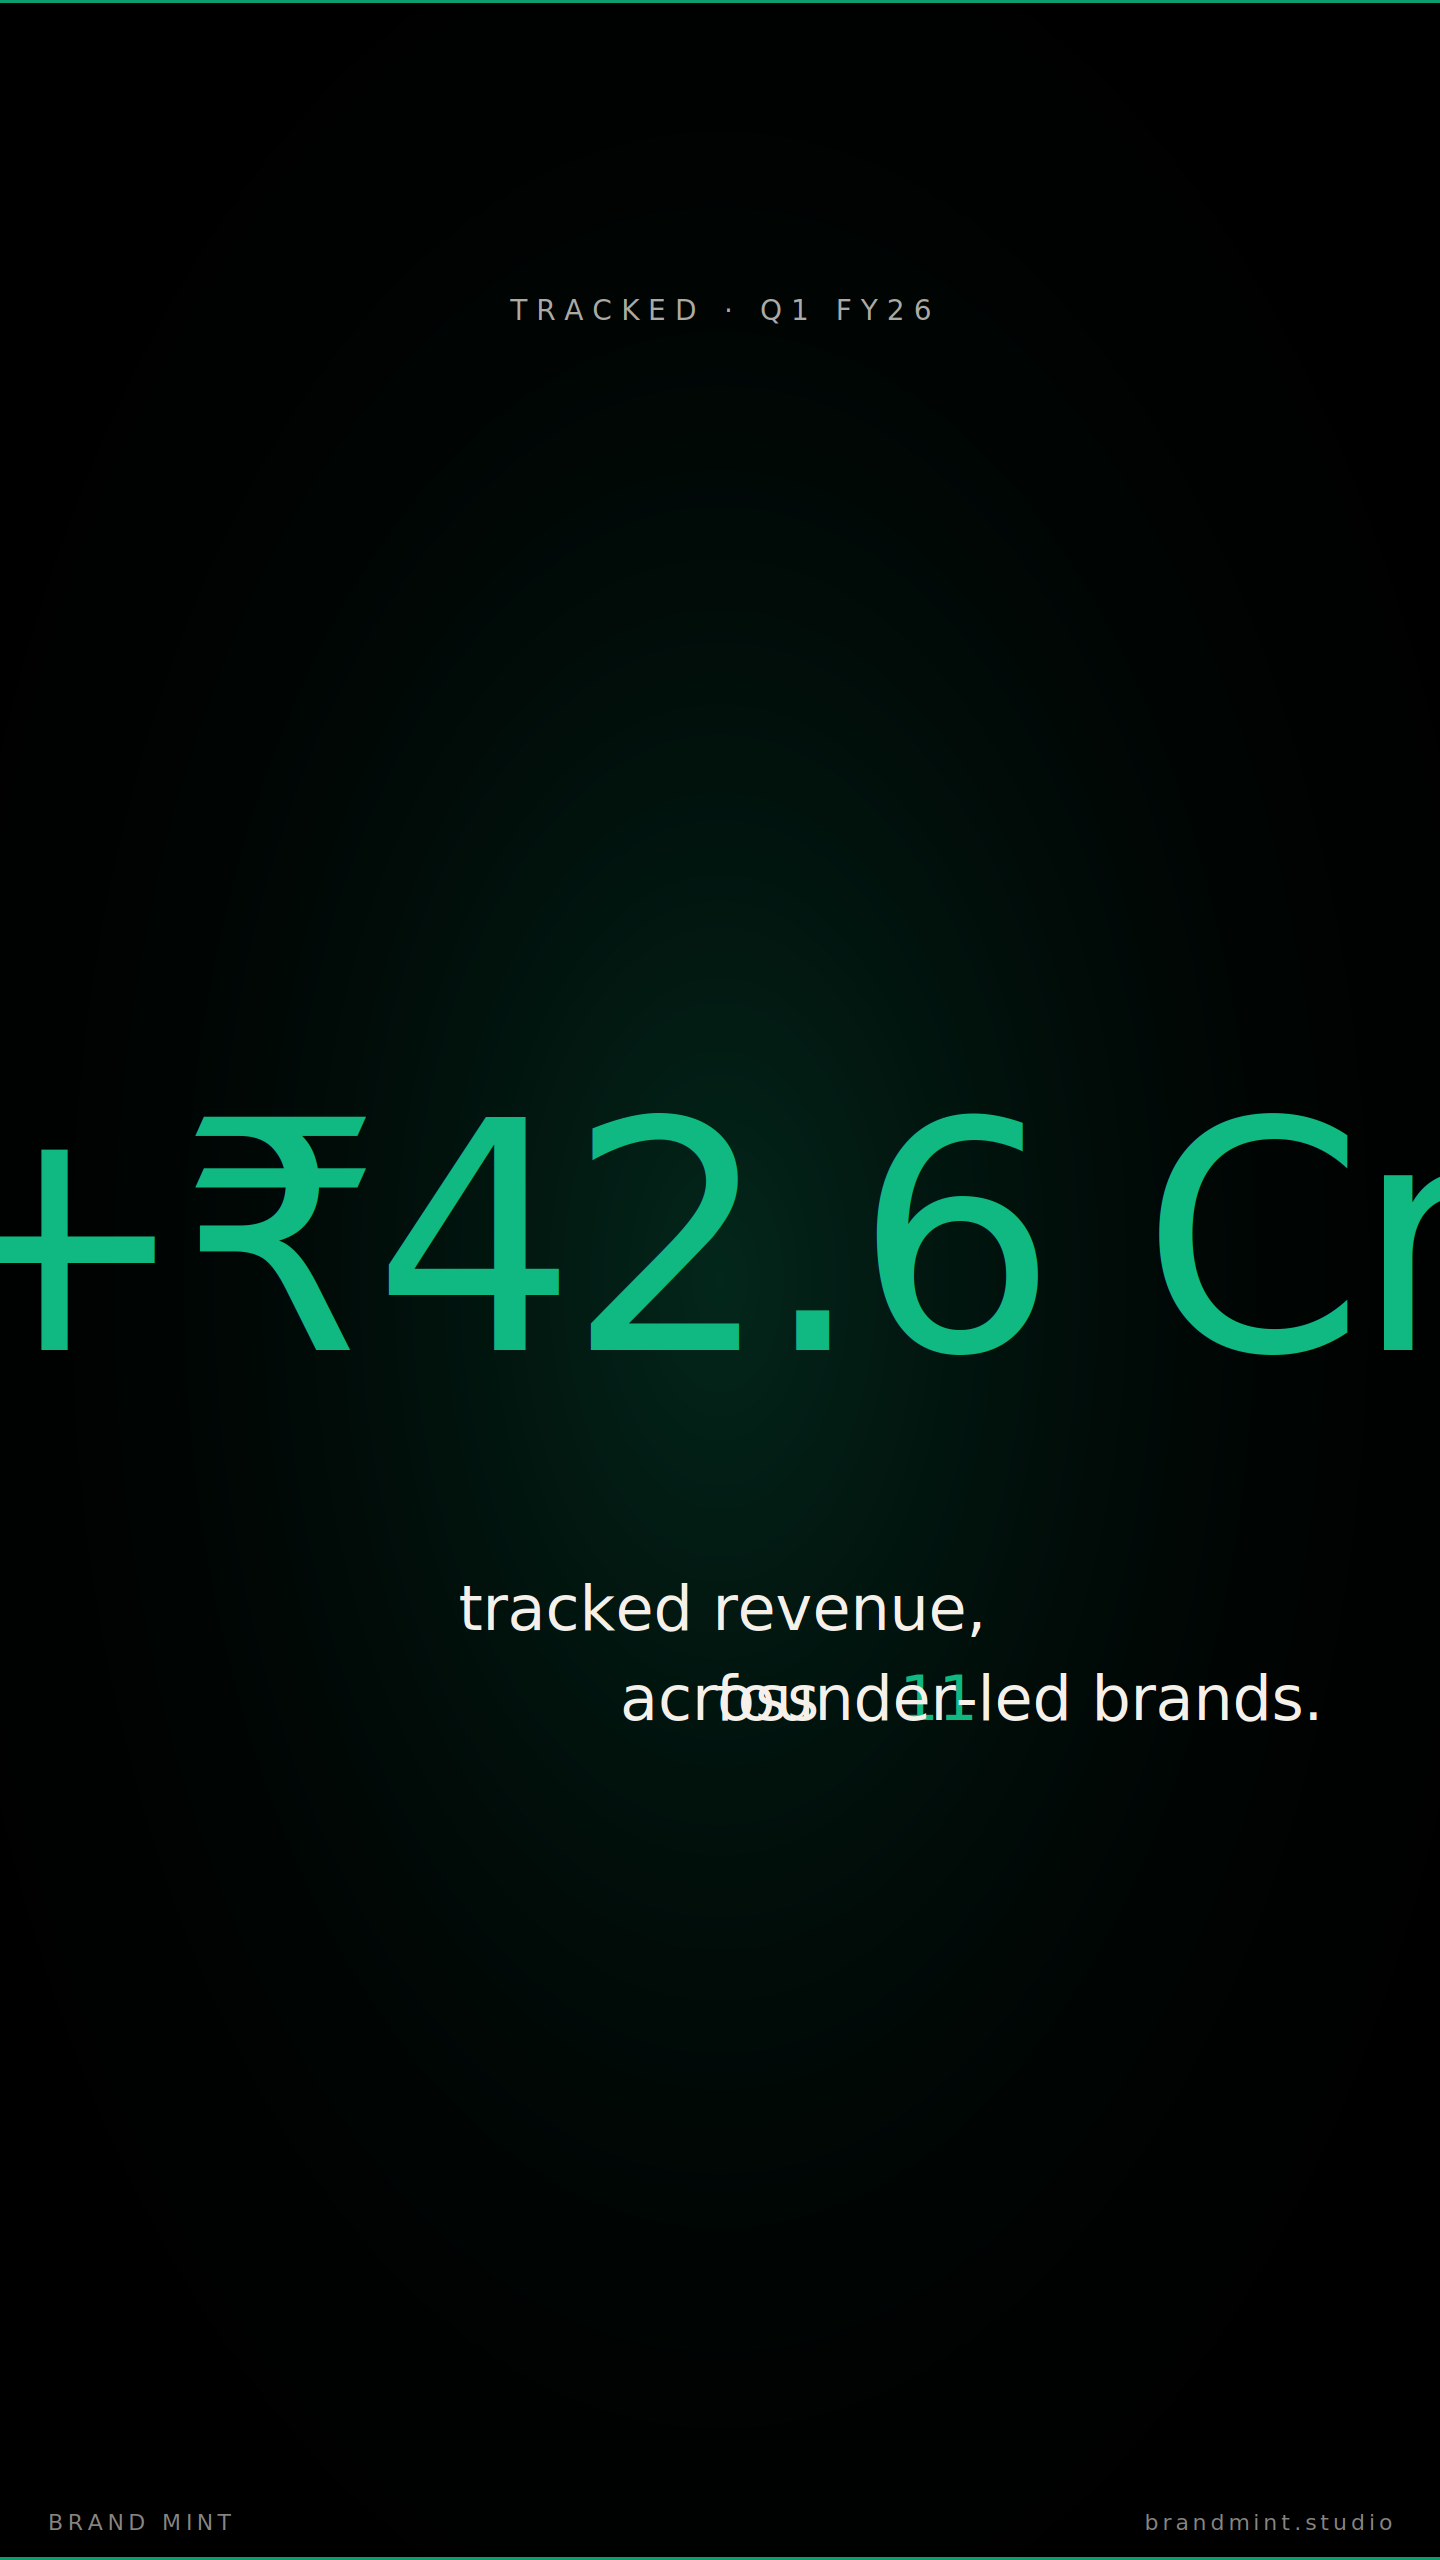
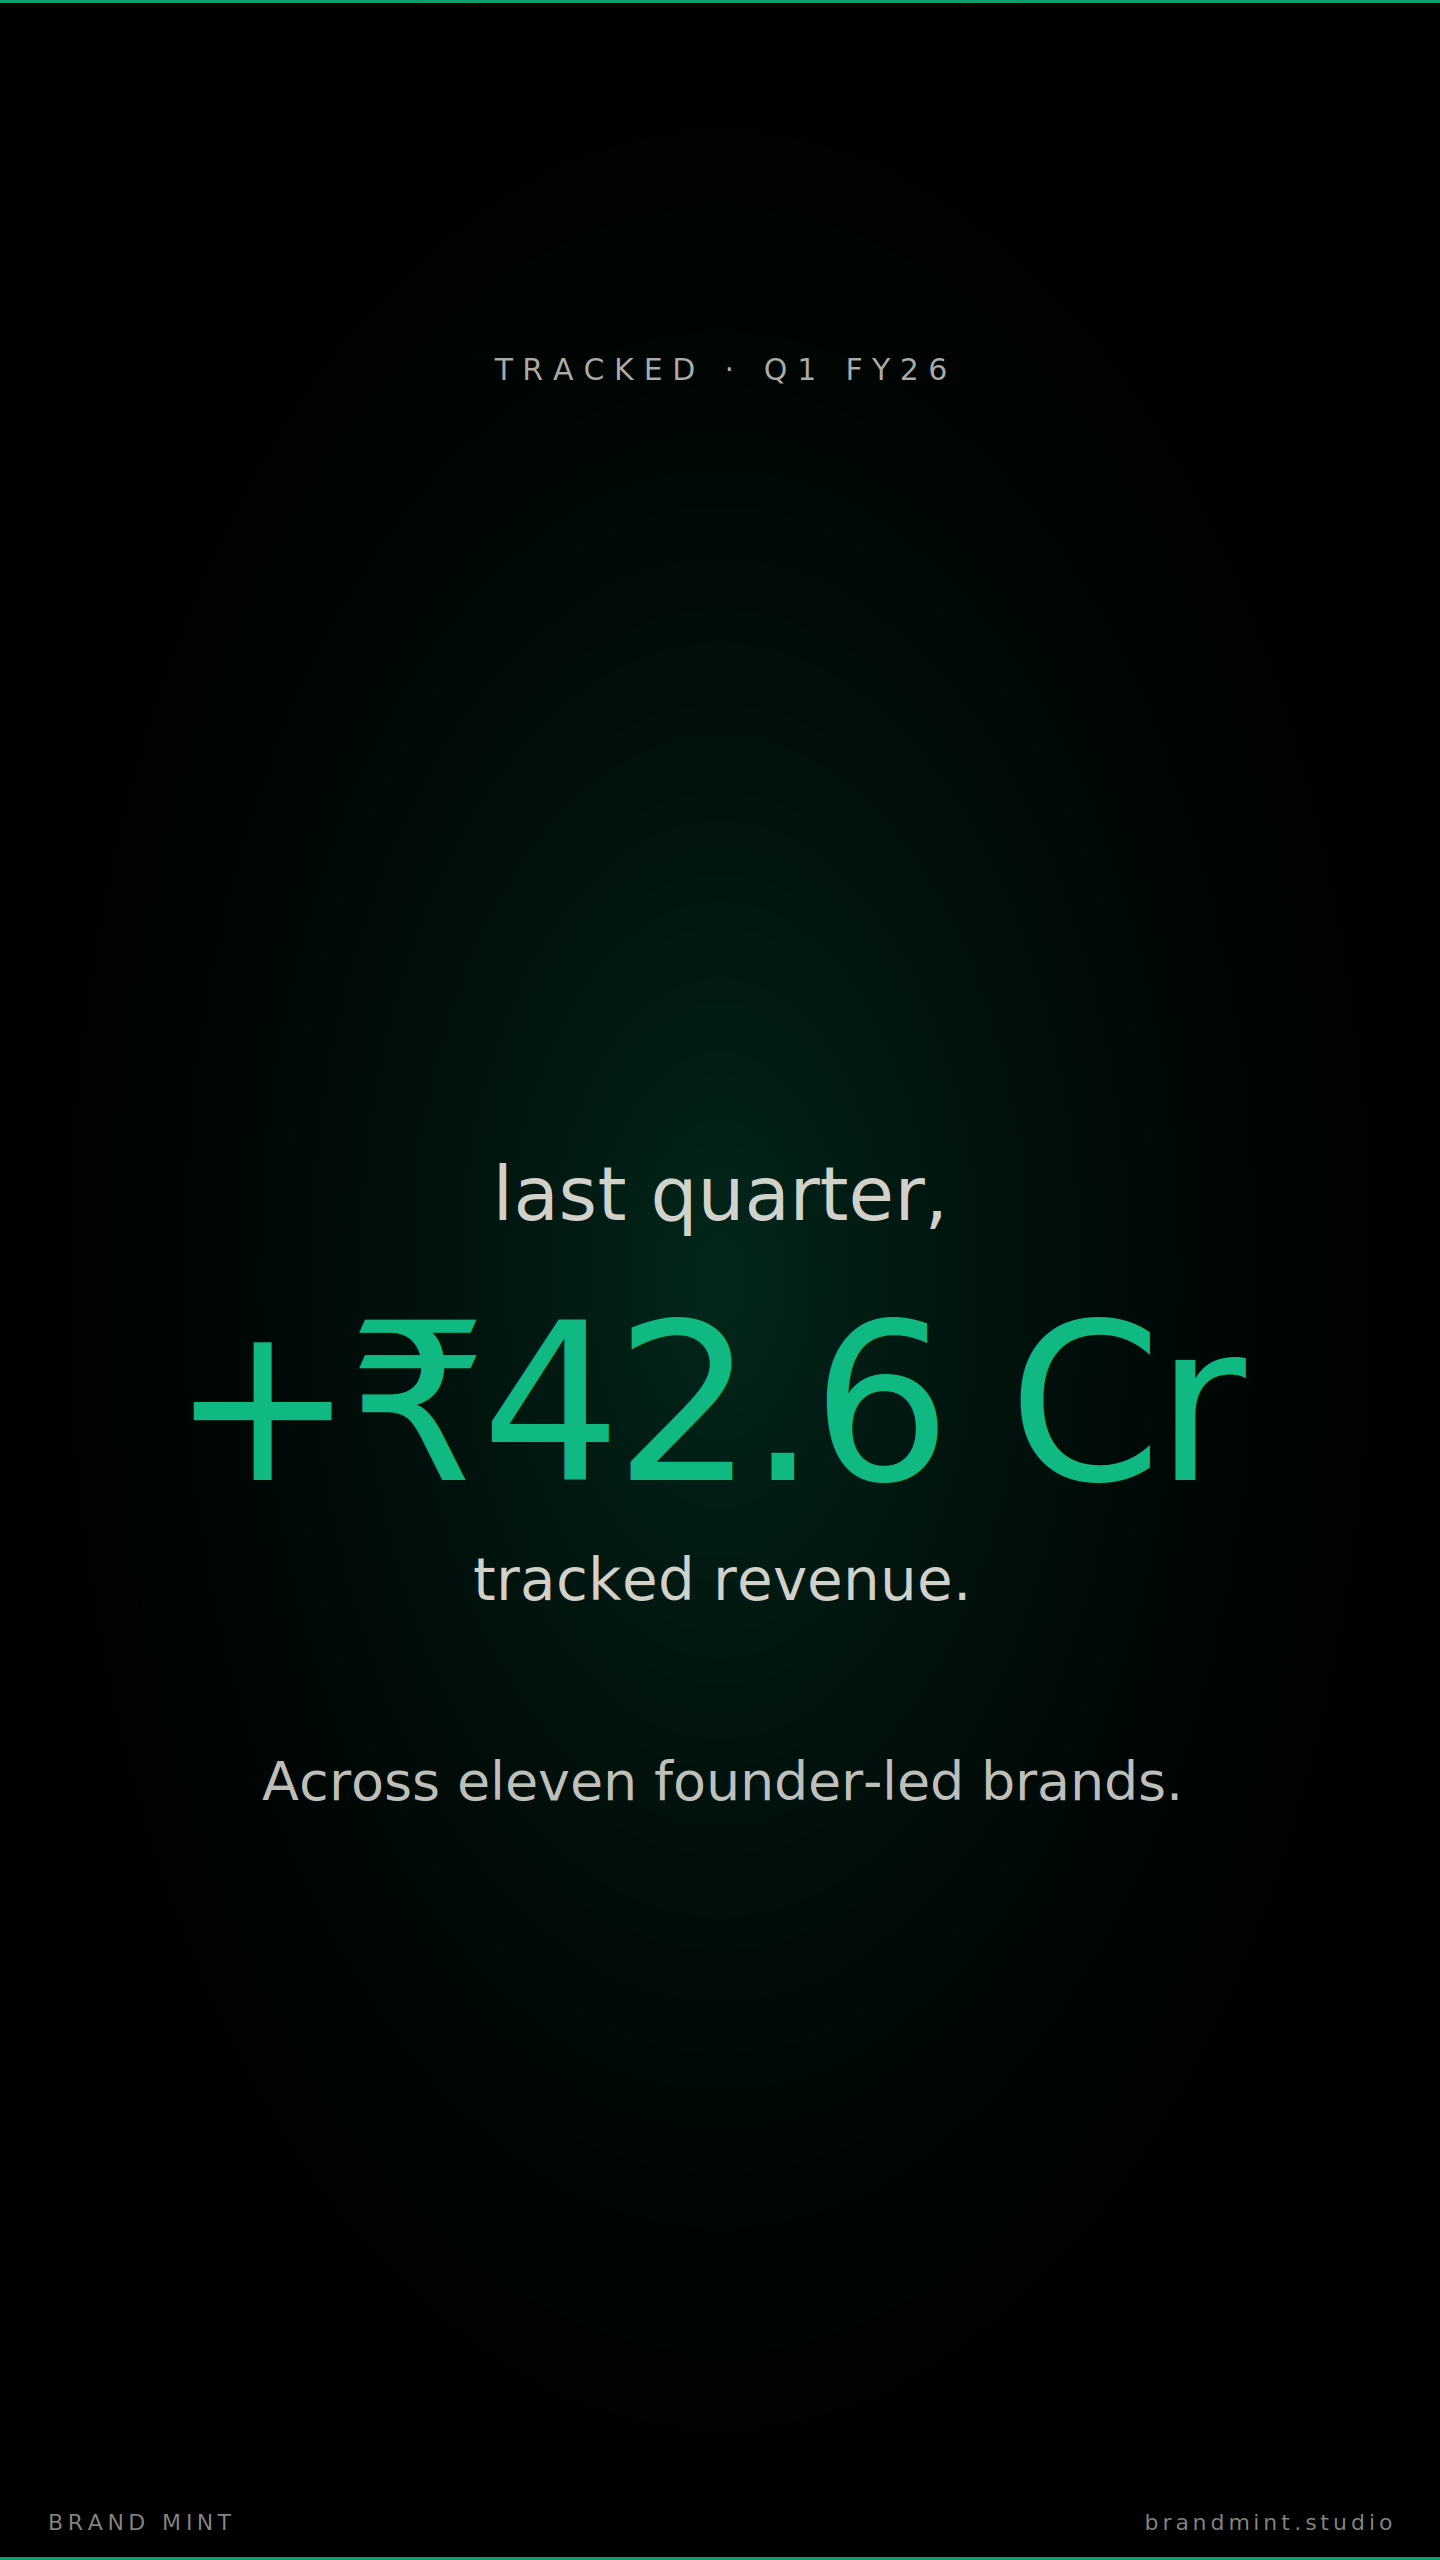
Ship cinematic teaser MP4 + fix scene-4 overflow
Eight-beat 9:16 reel (28s, 14 MB) with Ken Burns alternating zoom,
xfade transitions (fade-through-black on case-study cuts), vignette,
film grain, synthesized ambient pad (55/82.4/110 Hz sines + brown noise,
low-passed, 2.5s fade in/out).

Scene 4 fixes:
- '+₹42.6 Cr' at 320pt mono overflowed the right edge by ~290px —
  shrunk to 220pt and re-balanced the surrounding lines
- Mixed-font tspan inside text-anchor='middle' element collided in
  cairosvg ('Across 11 founder-led brands' rendered as overlapping
  glyphs). Switched to single-font 'Across eleven founder-led brands.'

Also re-encoded the final mux at crf 24 / tune grain / 4Mbps cap;
the original crf 17 produced a 158 MB file because film grain destroys
H.264 compression efficiency.

diff --git a/brand-kit/video/cinematic/build_cinematic.py b/brand-kit/video/cinematic/build_cinematic.py
@@ -177,21 +177,15 @@ def scene_3_reveal():
 
 
 def scene_4_stat_drop():
+    cy = RH // 2
     inner = f"""
     <rect width="{RW}" height="{RH}" fill="{BLACK}"/>
     <rect width="{RW}" height="{RH}" fill="url(#mintGlow)" opacity="0.5"/>
-    <text x="{RW//2}" y="320" text-anchor="middle" font-family="{MONO}" font-size="28"
-          letter-spacing="0.32em" fill="{CREAM}" opacity="0.7">TRACKED · Q1 FY26</text>
-    <text x="{RW//2}" y="{RH//2 + 70}" text-anchor="middle" font-family="{MONO}"
-          font-size="320" font-weight="500" letter-spacing="-0.03em"
-          fill="{MINT_3}" filter="url(#glow)">+&#8377;42.6 Cr</text>
-    <g font-family="{DISPLAY}" font-weight="500" font-style="italic" fill="{CREAM}">
-      <text x="{RW//2}" y="{RH//2 + 350}" text-anchor="middle" font-size="62">tracked revenue,</text>
-      <text x="{RW//2}" y="{RH//2 + 440}" text-anchor="middle" font-size="62">
-        across <tspan font-family="{MONO}" font-style="normal" fill="{MINT_3}">11</tspan>
-        founder-led brands.
-      </text>
-    </g>
+    <text x="{RW//2}" y="380" text-anchor="middle" font-family="{MONO}" font-size="30" letter-spacing="0.32em" fill="{CREAM}" opacity="0.7">TRACKED &#183; Q1 FY26</text>
+    <text x="{RW//2}" y="{cy - 60}" text-anchor="middle" font-family="{DISPLAY}" font-size="74" font-weight="500" font-style="italic" fill="{CREAM}" opacity="0.85">last quarter,</text>
+    <text x="{RW//2}" y="{cy + 200}" text-anchor="middle" font-family="{MONO}" font-size="220" font-weight="500" letter-spacing="-0.03em" fill="{MINT_3}" filter="url(#glow)">+&#8377;42.6 Cr</text>
+    <text x="{RW//2}" y="{cy + 320}" text-anchor="middle" font-family="{DISPLAY}" font-size="58" font-weight="500" font-style="italic" fill="{CREAM}" opacity="0.85">tracked revenue.</text>
+    <text x="{RW//2}" y="{cy + 520}" text-anchor="middle" font-family="{DISPLAY}" font-size="54" font-weight="500" fill="{CREAM}" opacity="0.78">Across eleven founder-led brands.</text>
     {cinema_bars(dark=True)}
     """
     return wrap(inner)